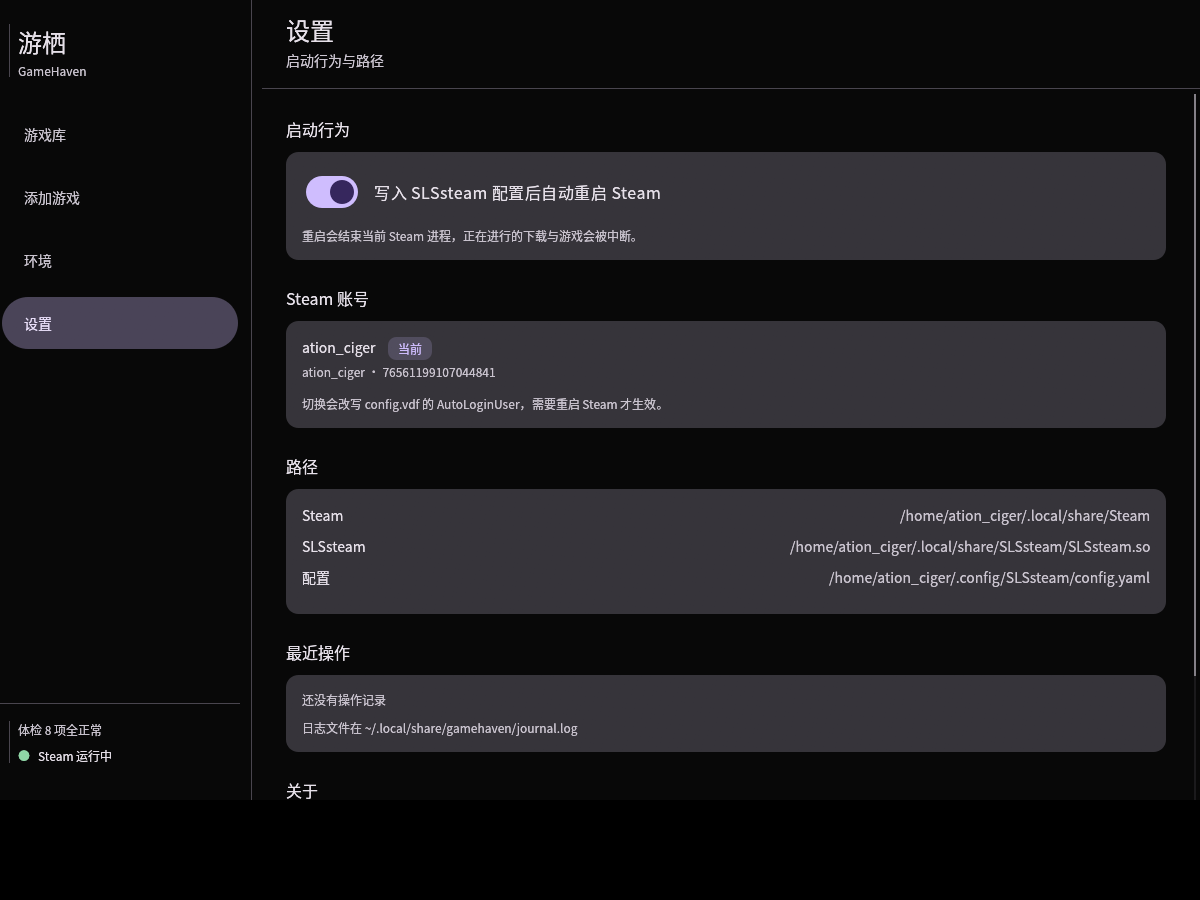
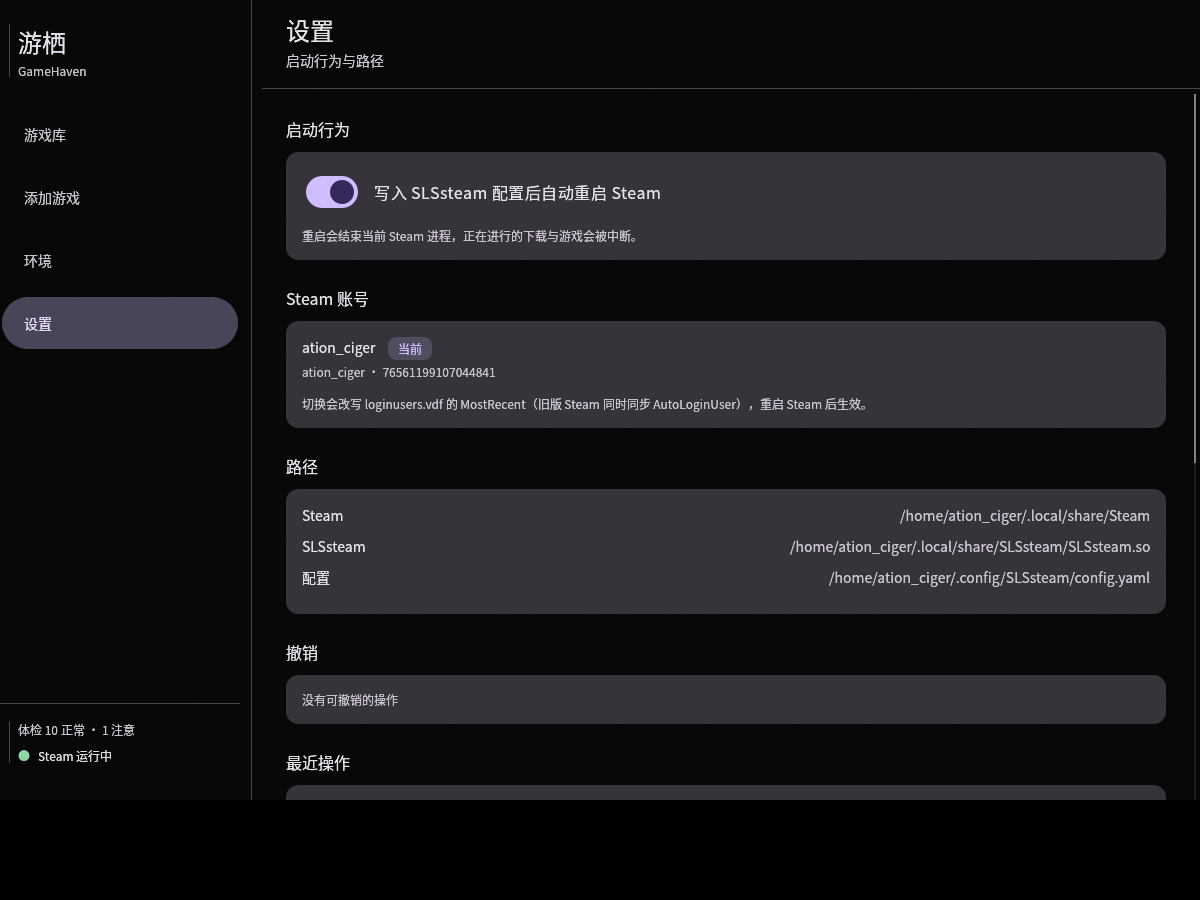
docs: refresh settings screenshot and feature table
- README 设置行补充撤销、检查更新、SLScheevo
- 更新设置页截图

diff --git a/README.md b/README.md
@@ -28,7 +28,7 @@ X11 与 Wayland 都可以运行。
 | 游戏库 | 发现原生 / Flatpak Steam 库；加载封面，列出已安装游戏、占用空间和「未完成」标记；标出已注入 SLSsteam 的游戏，点击标记可移除注入；未完成记录可一键按实际目录修复 ACF；每行可直接启动 |
 | 添加游戏 | 输入 AppID 后「一键添加」：查 appinfo、写入游戏与 DLC、拉取 depot manifest、按设置重启 Steam；也保留手动分步（写入配置 / 解析本地清单 / manifest 导入） |
 | 环境 | 体检汇总 chip + 检查项列表（正常项折叠）；一键重启 Steam 并校验注入 |
-| 设置 | 自动重启开关、Steam 账号切换（改写 `loginusers.vdf` 的 `MostRecent`）、最近操作日志、路径、版本与许可证 |
+| 设置 | 自动重启开关、Steam 账号切换、撤销最近一次写操作、SLScheevo 检测、检查更新、最近操作日志、路径、版本与许可证 |
 
 ![添加游戏](docs/screenshots/add.png)
 
